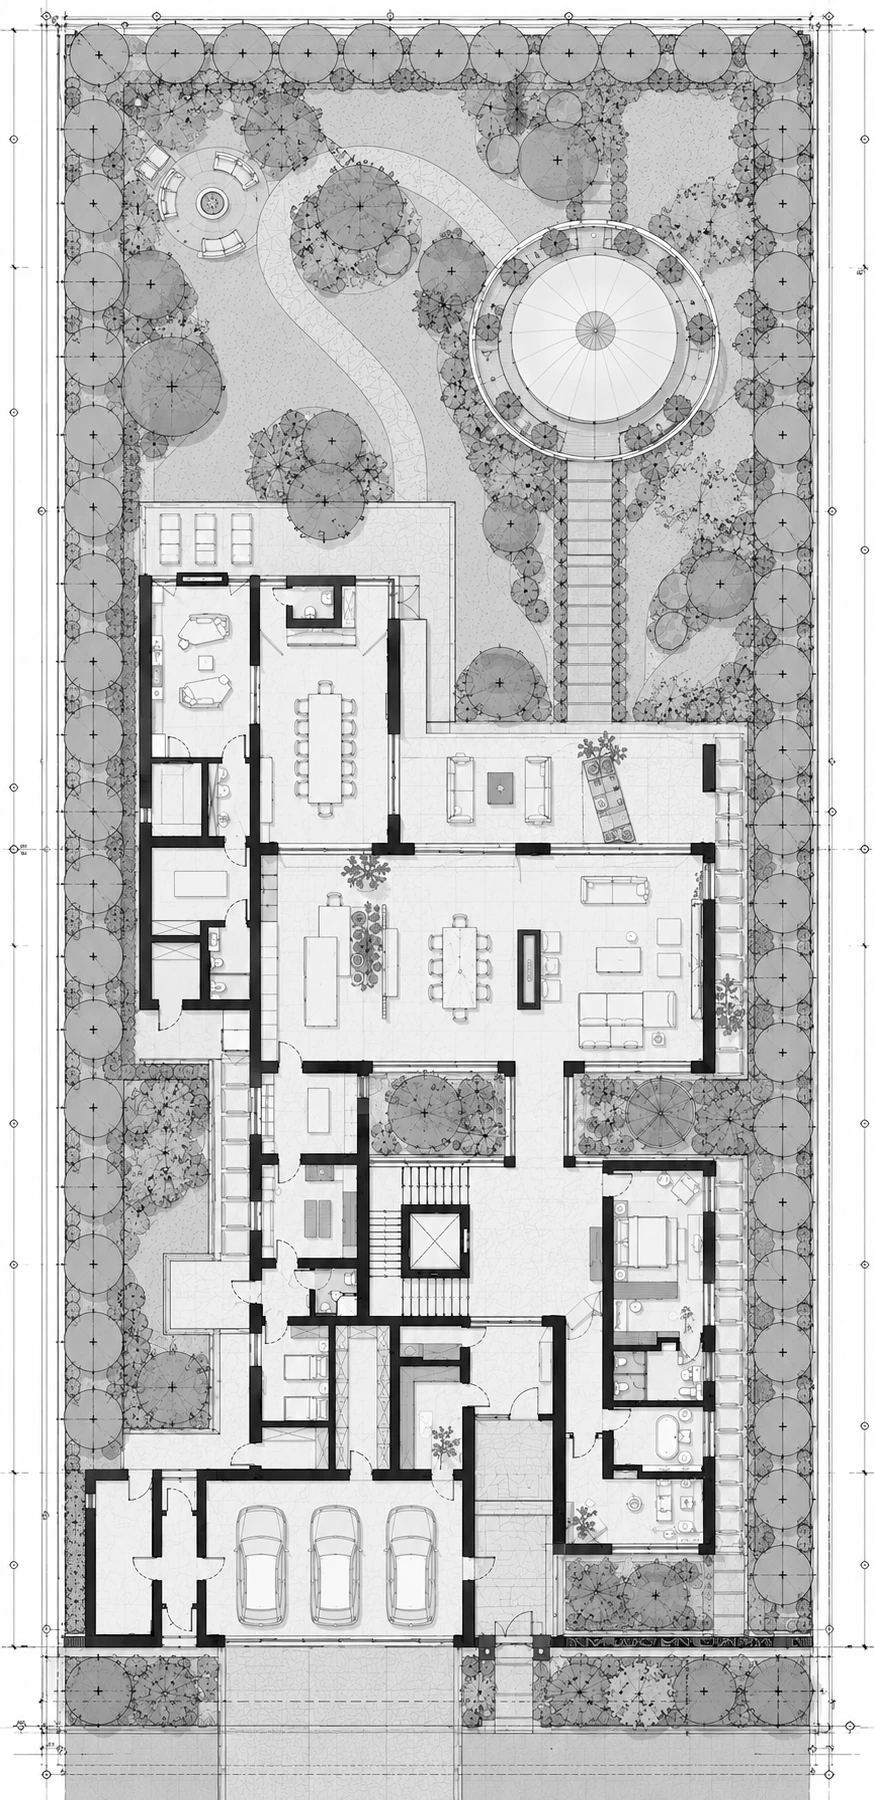
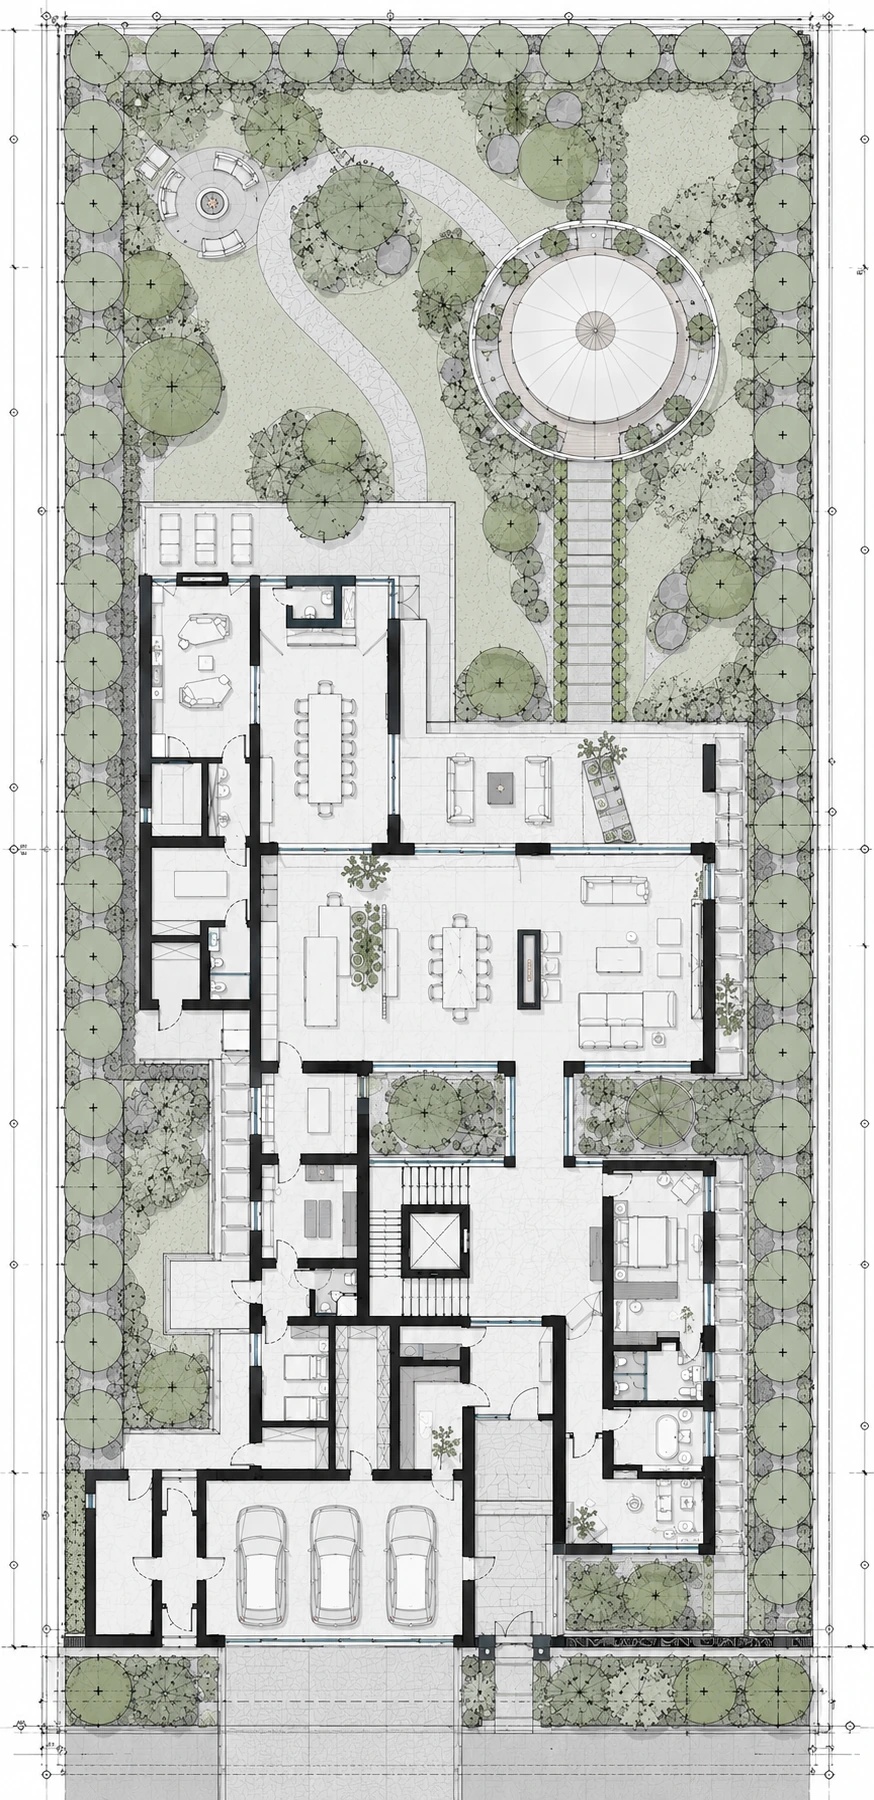
Farmhouse: план сверху, эскиз снизу; генплан снова цветной
Claude-Session: https://claude.ai/code/session_01JiQR7r8G6sd8gMfUwXA81M

diff --git a/index.html b/index.html
@@ -12,7 +12,7 @@
 <meta name="apple-mobile-web-app-capable" content="yes">
 <meta name="apple-mobile-web-app-status-bar-style" content="black-translucent">
 <meta name="apple-mobile-web-app-title" content="Antonovych">
-<link rel="stylesheet" href="styles.css?v=202610301406">
+<link rel="stylesheet" href="styles.css?v=202610301410">
 </head>
 <body>
 
@@ -24,7 +24,7 @@
 <div id="counter"></div>
 <div id="hint">← → листать   ·   Esc обзор   ·   F во весь экран</div>
 
-<script src="slides.js?v=202610301406"></script>
-<script src="app.js?v=202610301406"></script>
+<script src="slides.js?v=202610301410"></script>
+<script src="app.js?v=202610301410"></script>
 </body>
 </html>

diff --git a/slides.js b/slides.js
@@ -23,7 +23,7 @@ window.SLIDES = [
  },
  {
   "type": "photo",
-  "src": "media/img/d1_genplan.webp?g=1"
+  "src": "media/img/d1_genplan.webp?g=2"
  },
  {
   "type": "photo",
@@ -147,15 +147,15 @@ window.SLIDES = [
  },
  {
   "type": "photo",
-  "src": "media/img/d3_p7.webp?g=1"
+  "src": "media/img/d3_p7.webp?g=2"
  },
  {
   "type": "photo",
-  "src": "media/img/d3_p8.webp?g=1"
+  "src": "media/img/d3_p8.webp?g=2"
  },
  {
   "type": "photo",
-  "src": "media/img/d3_p9.webp?g=1"
+  "src": "media/img/d3_p9.webp?g=2"
  },
  {
   "type": "text",
